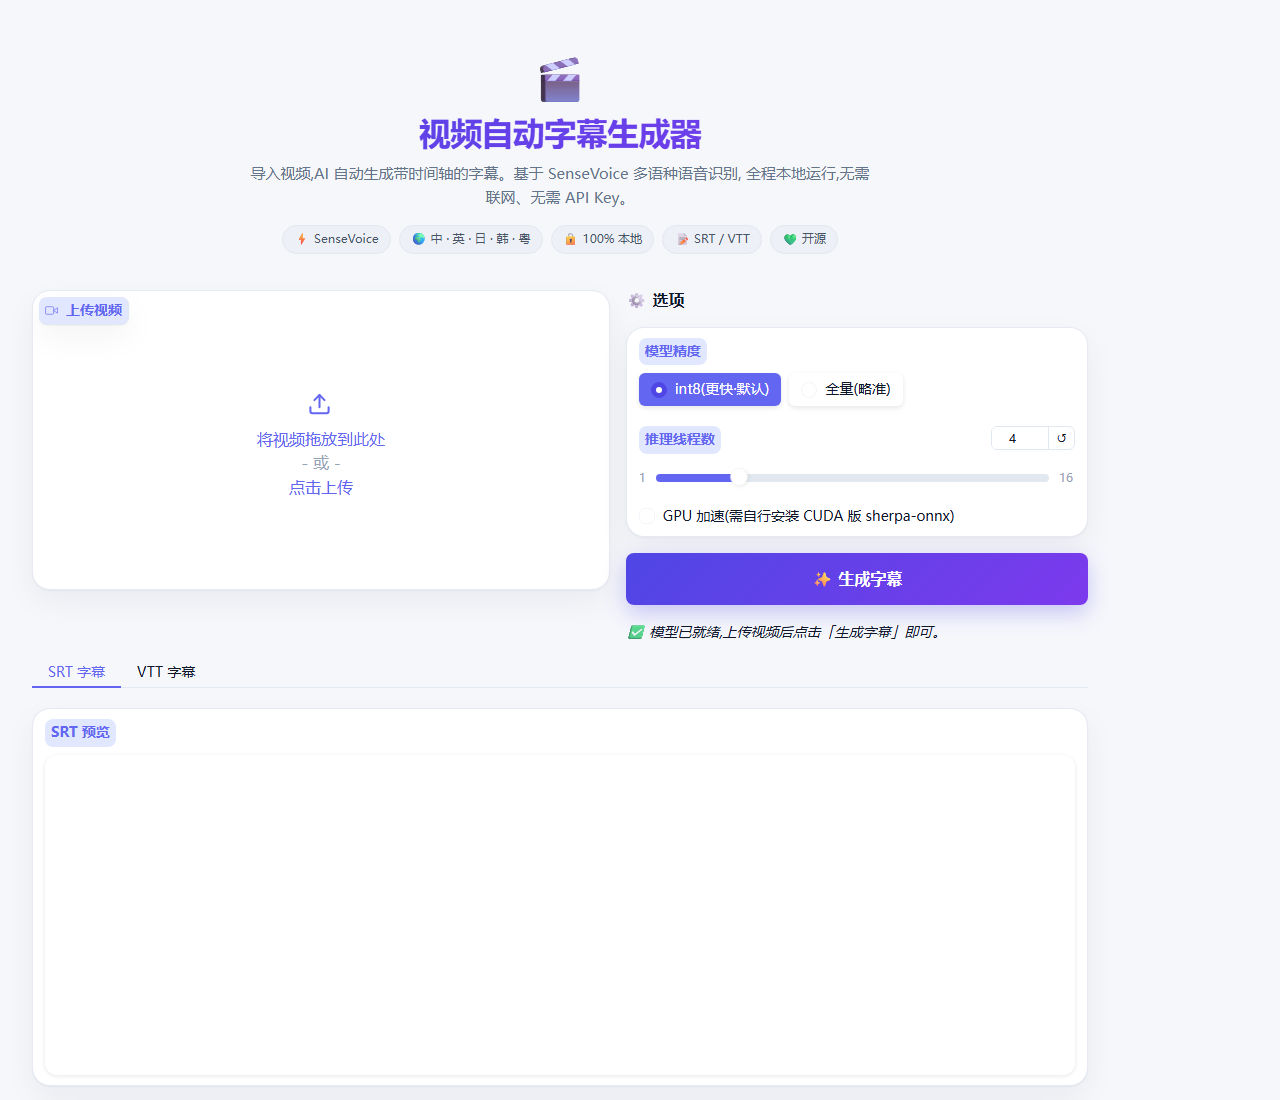
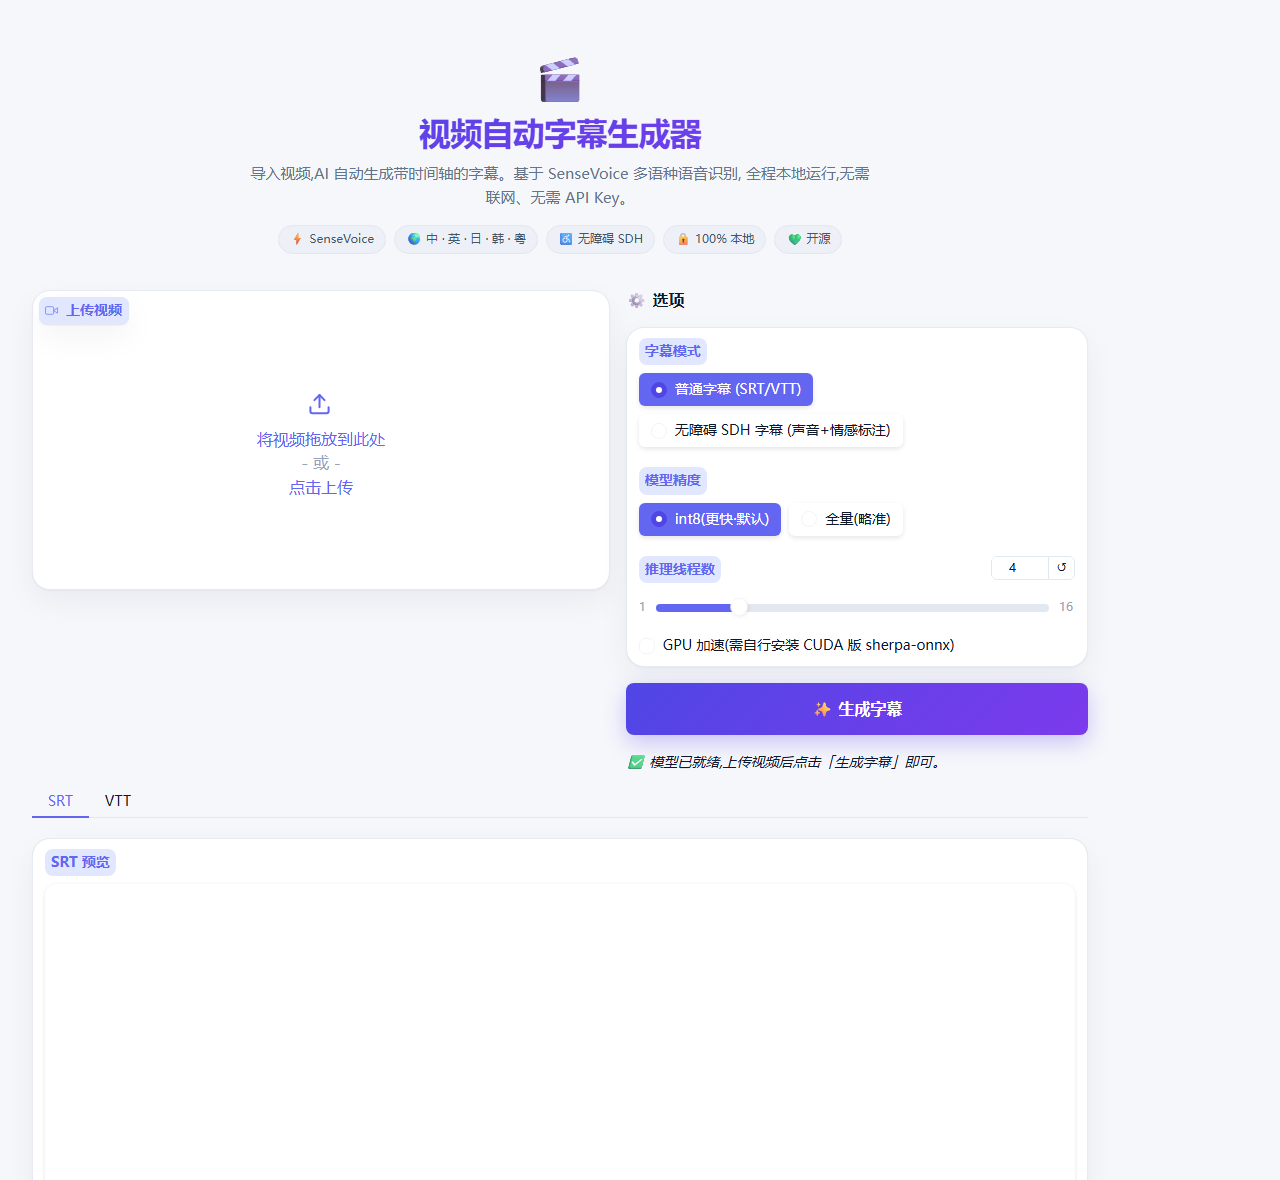
docs: README 新增无障碍 SDH 章节与更新截图

diff --git a/README.md b/README.md
@@ -2,7 +2,7 @@
 
 # 🎬 视频自动字幕生成器
 
-**导入视频 → AI 自动生成带时间轴的字幕(SRT / VTT)**
+**导入视频 → AI 自动生成带时间轴字幕(SRT / VTT),并独家支持 ♿ 无障碍 SDH 字幕(声音与情感标注)**
 
 基于 [SenseVoice](https://github.com/FunAudioLLM/SenseVoice) 多语种语音识别,
 经 [sherpa-onnx](https://github.com/k2-fsa/sherpa-onnx) 在**本地**推理 ——
@@ -24,6 +24,9 @@
 - 🌍 **多语种自动识别**:中文、英语、日语、韩语、粤语等 50+ 语言。
 - 🔒 **完全本地**:音频不离开你的电脑,无需 API Key、无需联网。
 - 📝 **双格式输出**:标准 SRT + WebVTT,兼容几乎所有播放器。
+- ♿ **无障碍 SDH 字幕(独家)**:利用 SenseVoice 的**情感识别 + 音频事件检测**,生成带
+  `[掌声]` `[笑声]` `[背景音乐]` 等声音标注、并按情感着色(ASS)的字幕 ——
+  这是听障人士、内容创作者、语言学习者的刚需,**目前没有同类开源工具**(见下)。
 - 🧩 **零配置依赖**:ffmpeg 由 `imageio-ffmpeg` 自带,无需单独安装。
 - 💻 **跨平台**:Windows / macOS / Linux,默认纯 CPU 即可运行;可选 GPU 加速。
 
@@ -47,6 +50,42 @@
 采用 **VAD 分段 + 段级时间戳** 的方案 —— 这是 sherpa-onnx 官方推荐的稳定做法
 (SenseVoice 在 FunASR 中的原生字级时间戳存在[已知对齐问题](https://github.com/modelsize/FunASR/issues/2324),
 故不采用)。
+
+## ♿ 无障碍 SDH 字幕(独家功能)
+
+SenseVoice 与 Whisper 最大的不同:它**一次调用同时输出 文本 + 语种 + 情感 + 音频事件**
+(Whisper 只输出纯文本)。本工具把这些额外信息映射成 **SDH(Subtitles for Deaf and Hard of Hearing)**
+无障碍字幕 —— 目前**没有其他开源项目**做这件事。
+
+在界面选择 **「字幕模式 → 无障碍 SDH 字幕」**,即可得到:
+
+- **SDH · SRT**:在台词里加入声音与情感标注。
+  ```text
+  1
+  00:00:28,902 --> 00:00:35,676
+  [背景音乐]
+
+  2
+  00:00:28,902 --> 00:00:35,676
+  （开心）朋友们，晚上好，欢迎大家来参加今天晚上的活动，谢谢大家。
+  ```
+- **SDH · ASS**:台词按情感着色(开心=橙、生气=红、难过=蓝、惊讶=黄…),
+  声音标注用斜体副样式。需支持 ASS 的播放器(VLC / PotPlayer / mpv / MPC)才能看到效果。
+  ```text
+  Dialogue: ... Default ... {\c&H000099FF}（开心）朋友们，晚上好…
+  Dialogue: ... Sound  ... [背景音乐]
+  ```
+
+SenseVoice 可识别的标注来源:
+
+| 类型 | 取值 | 字幕里的体现 |
+|------|------|--------------|
+| **音频事件** | 背景音乐 / 掌声 / 笑声 / 哄堂大笑 / 哭声 / 喷嚏声 | `[声音]`,BGM 连续段只标一次 |
+| **情感** | 开心 / 难过 / 激动 / 紧张 / 惊讶 / 厌恶 | SRT 加 `（情感）` 前缀;ASS 着色 |
+| **语种** | zh / en / ja / ko / yue / … | 自动识别(无需手选) |
+
+> 💡 适合场景:为听障观众制作无障碍字幕(SDH)、为视频/播客做内容审核与情绪分析、
+> 语言学习者对照语气、短视频创作者快速定位高光情绪片段。
 
 ## 🚀 快速开始
 
@@ -116,6 +155,7 @@ python app.py
 
 | 选项 | 说明 |
 |------|------|
+| **字幕模式** | `普通字幕`(SRT / VTT)或 `无障碍 SDH`(带声音/情感标注的 SRT + 按情感着色的 ASS),详见上节。 |
 | **模型精度** | `int8`(默认,更快、更小)或 `全量`(略准)。 |
 | **推理线程数** | CPU 推理线程数,默认按 CPU 核数自动取值。 |
 | **GPU 加速** | 勾选后尝试用 CUDA;需自行安装带 CUDA 的 sherpa-onnx(见下),失败自动回退 CPU。 |
@@ -140,8 +180,9 @@ pip uninstall sherpa-onnx
 ├── requirements.txt
 ├── subtitle_gen/          # 核心包
 │   ├── audio.py           # ffmpeg 抽音频 / 探测时长
-│   ├── transcribe.py      # VAD 分段 + SenseVoice 转写
-│   └── subtitles.py       # SRT / VTT 格式化
+│   ├── transcribe.py      # VAD 分段 + SenseVoice 转写(含情感/事件)
+│   ├── subtitles.py       # SRT / VTT 格式化
+│   └── sdh.py             # 无障碍 SDH(SRT + ASS,声音/情感标注)
 ├── models/                # 运行时下载(不入库;项目路径含非 ASCII 时改用用户缓存目录)
 └── outputs/               # 生成的字幕(不入库)
 ```